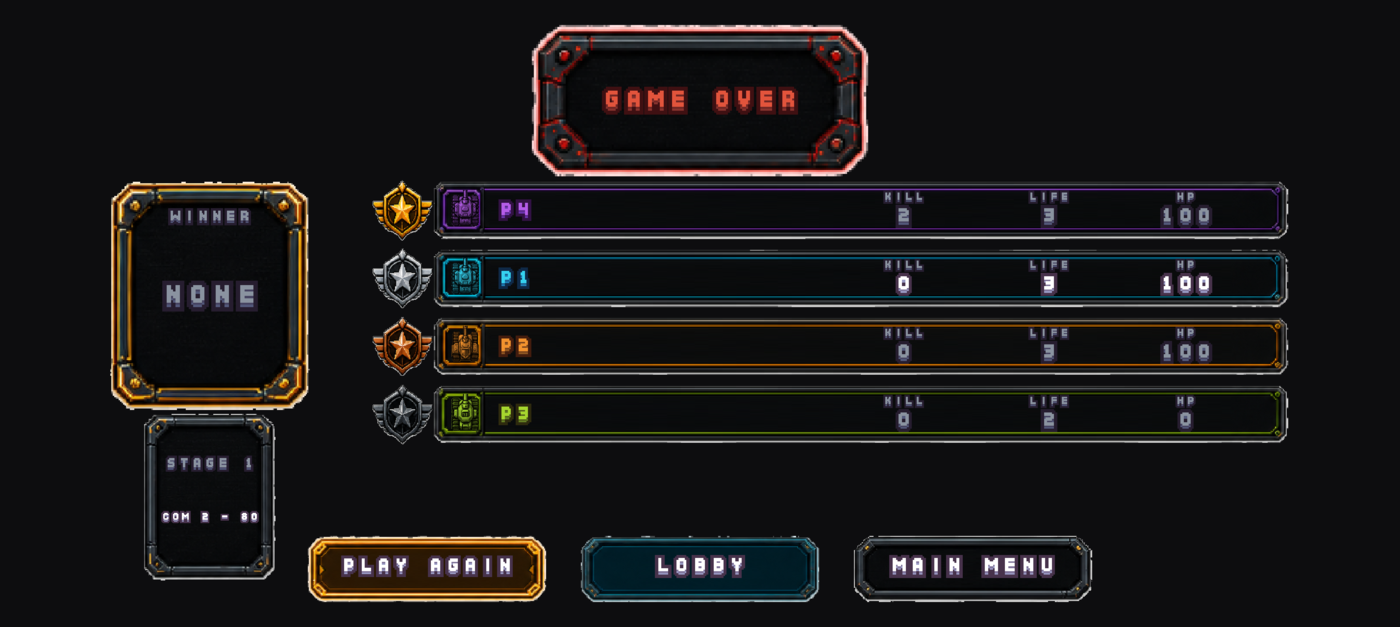
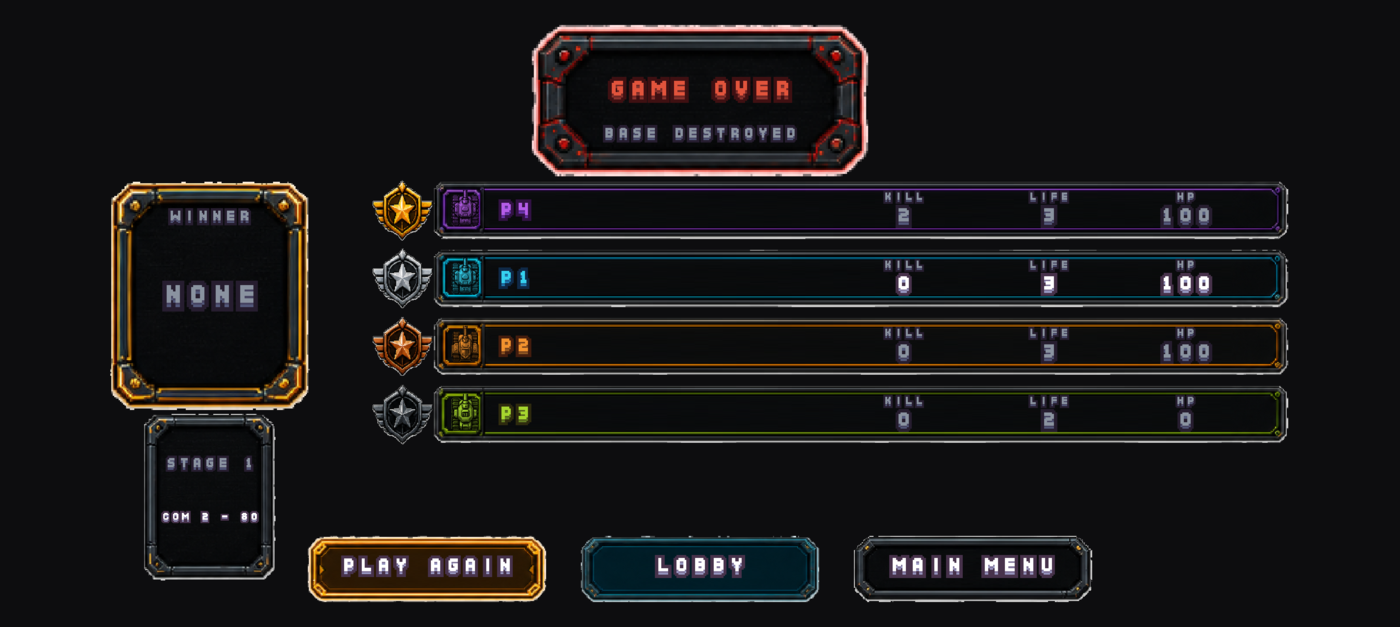
feat(phase9): 결과 화면에 끝난 이유를 적는다
배너만 두면 본진이 깨진 것인지 다 죽은 것인지 알 수 없다. (계획서 §33)
배너 아래는 순위 줄이 바로 오므로 배너 안 두 번째 줄에 넣는다.

Changed region(s): [[0.43, 0.1212, 0.5836, 0.2424]]

diff --git a/app/src/main/kotlin/com/kophas/battlecity/game/ResultScene.kt b/app/src/main/kotlin/com/kophas/battlecity/game/ResultScene.kt
@@ -29,6 +29,7 @@ class ResultScene(private val catalog: SpriteCatalog) {
     private var victory = false
     private var winners: List<Int> = emptyList()
     private var enemiesDestroyed = 0
+    private var reason: MatchState.EndReason = MatchState.EndReason.NONE
     private var totalEnemies = 0
     private var stageNumber = 1
     private var localSlot = -1
@@ -62,6 +63,7 @@ class ResultScene(private val catalog: SpriteCatalog) {
         victory = match.phase == MatchState.Phase.VICTORY
         winners = if (victory) match.winners else emptyList()
         enemiesDestroyed = match.enemiesDestroyed
+        reason = match.endReason
         totalEnemies = match.totalEnemies
         stageNumber = stageIndex + 1
         this.localSlot = localSlot
@@ -148,16 +150,29 @@ class ResultScene(private val catalog: SpriteCatalog) {
             batch,
             if (victory) "VICTORY" else "GAME OVER",
             banner,
-            banner.height * 0.42f,
+            banner.height * 0.34f,
             if (victory) ScreenUi.ACCENT else ScreenUi.RED,
             BANNER_TEXT_CENTER,
-            0.62f,
+            0.58f,
         )
+
+        // 왜 끝났는지 한 줄 더 쓴다. 배너만 두면 본진이 깨진 것인지 다 죽은 것인지
+        // 알 수 없다. (계획서 §33) 배너 안에 넣는다 — 아래는 순위 줄이 바로 온다.
+        reasonText()?.let {
+            ui.label(batch, it, banner, banner.height * 0.18f, ScreenUi.DIM, REASON_TEXT_CENTER, 0.6f)
+        }
 
         drawWinner(batch)
         drawStageCard(batch)
         ranking.forEachIndexed { index, slot -> drawRow(batch, index, slot) }
         drawButtons(batch)
+    }
+
+    private fun reasonText(): String? = when (reason) {
+        MatchState.EndReason.BASE_DESTROYED -> "BASE DESTROYED"
+        MatchState.EndReason.ALL_PLAYERS_ELIMINATED -> "ALL PLAYERS DOWN"
+        MatchState.EndReason.ALL_ENEMIES_DESTROYED -> "ALL COM DESTROYED"
+        MatchState.EndReason.NONE -> null
     }
 
     private fun drawWinner(batch: SpriteBatch) {
@@ -352,7 +367,8 @@ class ResultScene(private val catalog: SpriteCatalog) {
         private const val ROW_HEIGHT = 1.3f
         private const val ROW_SPACING = 1.55f
 
-        private const val BANNER_TEXT_CENTER = 0.5f
+        private const val BANNER_TEXT_CENTER = 0.43f
+        private const val REASON_TEXT_CENTER = 0.72f
         private const val BUTTON_TEXT_CENTER = 0.46f
         private const val PRESSED_ALPHA = 0.65f
         private const val DISABLED_ALPHA = 0.35f
